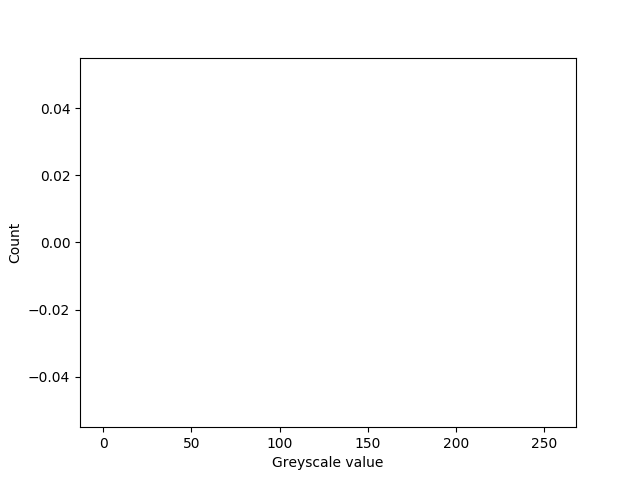
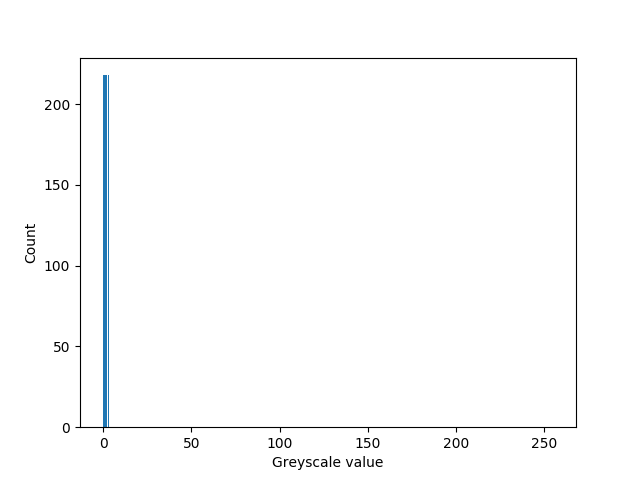
Sending data properly using collective communication. Need to count and Reduce

diff --git a/cwk2.c b/cwk2.c
@@ -125,46 +125,64 @@ int main( int argc, char **argv )
 
 
 	int
-		*sendData = (int*) malloc( sizeof(int)*pixelsPerProc ),
 		*recvData = (int*) malloc( sizeof(int)*pixelsPerProc );
 
 	// Fill the sendData array with some numbers; for the purpose of this exercise it doesn't matter what,
 	// although it helps debugging if each rank's array contains different values.
 
-	for( i=0; i<pixelsPerProc; i++ ) sendData[i] = &image[i];
+	// MPI_Status status;
+	// if( rank % 2 )
+	// {
+	// 	printf("here is rank %d with size=%d\n" , rank , pixelsPerProc);
+	//
+	// 	MPI_Send( sendData, pixelsPerProc, MPI_INT, ( rank==numProcs-1 ? 0 : rank+1 ), 0, MPI_COMM_WORLD );
+	// 	MPI_Recv( recvData, pixelsPerProc, MPI_INT, ( rank==0 ? numProcs-1 : rank-1 ), 0, MPI_COMM_WORLD, &status );
+	//
+	// }
+	// else
+	// {
+	// 	printf("here is rank %d with size=%d\n" , rank , pixelsPerProc);
+	//
+	// 	MPI_Recv( recvData, pixelsPerProc, MPI_INT, ( rank==0 ? numProcs-1 : rank-1 ), 0, MPI_COMM_WORLD, &status );
+	// 	MPI_Send( sendData, pixelsPerProc, MPI_INT, ( rank==numProcs-1 ? 0 : rank+1 ), 0, MPI_COMM_WORLD );
+	//
+	// }
+	//
+	// if( rank==0 )
+	// 	for( i=0; i<(pixelsPerProc<20?pixelsPerProc:20); i++ ) printf( "%i\t%i\t%i\n", i, sendData[i],recvData[i] );
+	//
+	//
 
+	MPI_Scatter(
+		image, pixelsPerProc, MPI_INT, // Sent from
+		recvData, pixelsPerProc, MPI_INT, // Received to
+		0, MPI_COMM_WORLD 						// Source rank 0
+	);
 
-
-
-	MPI_Status status;
-	if( rank % 2 )
-	{
-		printf("here is rank %d with size=%d\n" , rank , pixelsPerProc);
-
-		MPI_Send( sendData, pixelsPerProc, MPI_INT, ( rank==numProcs-1 ? 0 : rank+1 ), 0, MPI_COMM_WORLD );
-		MPI_Recv( recvData, pixelsPerProc, MPI_INT, ( rank==0 ? numProcs-1 : rank-1 ), 0, MPI_COMM_WORLD, &status );
-
-	}
-	else
-	{
-		printf("here is rank %d with size=%d\n" , rank , pixelsPerProc);
-
-		MPI_Recv( recvData, pixelsPerProc, MPI_INT, ( rank==0 ? numProcs-1 : rank-1 ), 0, MPI_COMM_WORLD, &status );
-		MPI_Send( sendData, pixelsPerProc, MPI_INT, ( rank==numProcs-1 ? 0 : rank+1 ), 0, MPI_COMM_WORLD );
-
-	}
-
+	// Check if data is sent and received corectly
 	if( rank==0 )
-		for( i=0; i<(pixelsPerProc<20?pixelsPerProc:20); i++ ) printf( "%i\t%i\n", i, recvData[i] );
-
-
-
+		for( i=0; i<(pixelsPerProc<100?pixelsPerProc:100); i++ ) printf( "%i\t%i\t%i\n", i, image[i],recvData[i] );
 
 
 	// Step 3
+	int *count_a = NULL;
+	count_a = (int*) malloc( (maxValue+1)*sizeof(int) );
+	// for( i=0; i<maxValue+1; i++ ) count_a[i] = 0;
+	//
+	// //
+	// for(i=0;i<pixelsPerProc;i++)
+	// 	count_a[recvData[i]] += 1;
 
 
-	//MPI_Reduce(&combinedHist[i], &count, 1, MPI_INT, MPI_SUM, 0, MPI_COMM_WORLD);
+	// printf(" FOR 231 index %d value %d ", 231, count_a[231]);
+	// printf(" FOR 10 index %d value %d ", 10, count_a[10]);
+	// printf(" FOR 48 index %d value %d ", 48, count_a[48]);
+	// printf(" FOR 123 index %d value %d ", 123, count_a[123]);
+
+
+
+	//int a=0;
+	//MPI_Reduce(&count_a, a, 1, MPI_INT, MPI_SUM, 0, MPI_COMM_WORLD);
 
 	//
 	//Step 4. Send all of the local counts back to rank 0, which calculates the total.
@@ -189,17 +207,12 @@ int main( int argc, char **argv )
 	// 	MPI_Send( &count, 1, MPI_INT, 0, 0, MPI_COMM_WORLD );
 	// }
 
-	// int count = 5;
-	// int *partials=NULL;
-	// if ( rank == 0)
-	// {
-	// 	partials = (int*) malloc( pixelsPerProc*sizeof(numProcs) );
-	// }
-	// MPI_Gather(
-	// 	&count, 1, MPI_INT,
-	// 	combinedHist, 1, MPI_INT,
-	// 	0, MPI_COMM_WORLD
-	// );
+
+	MPI_Gather(
+		count_a, 1, MPI_INT,
+		combinedHist, 1, MPI_INT,
+		0, MPI_COMM_WORLD
+	);
 
 
 
